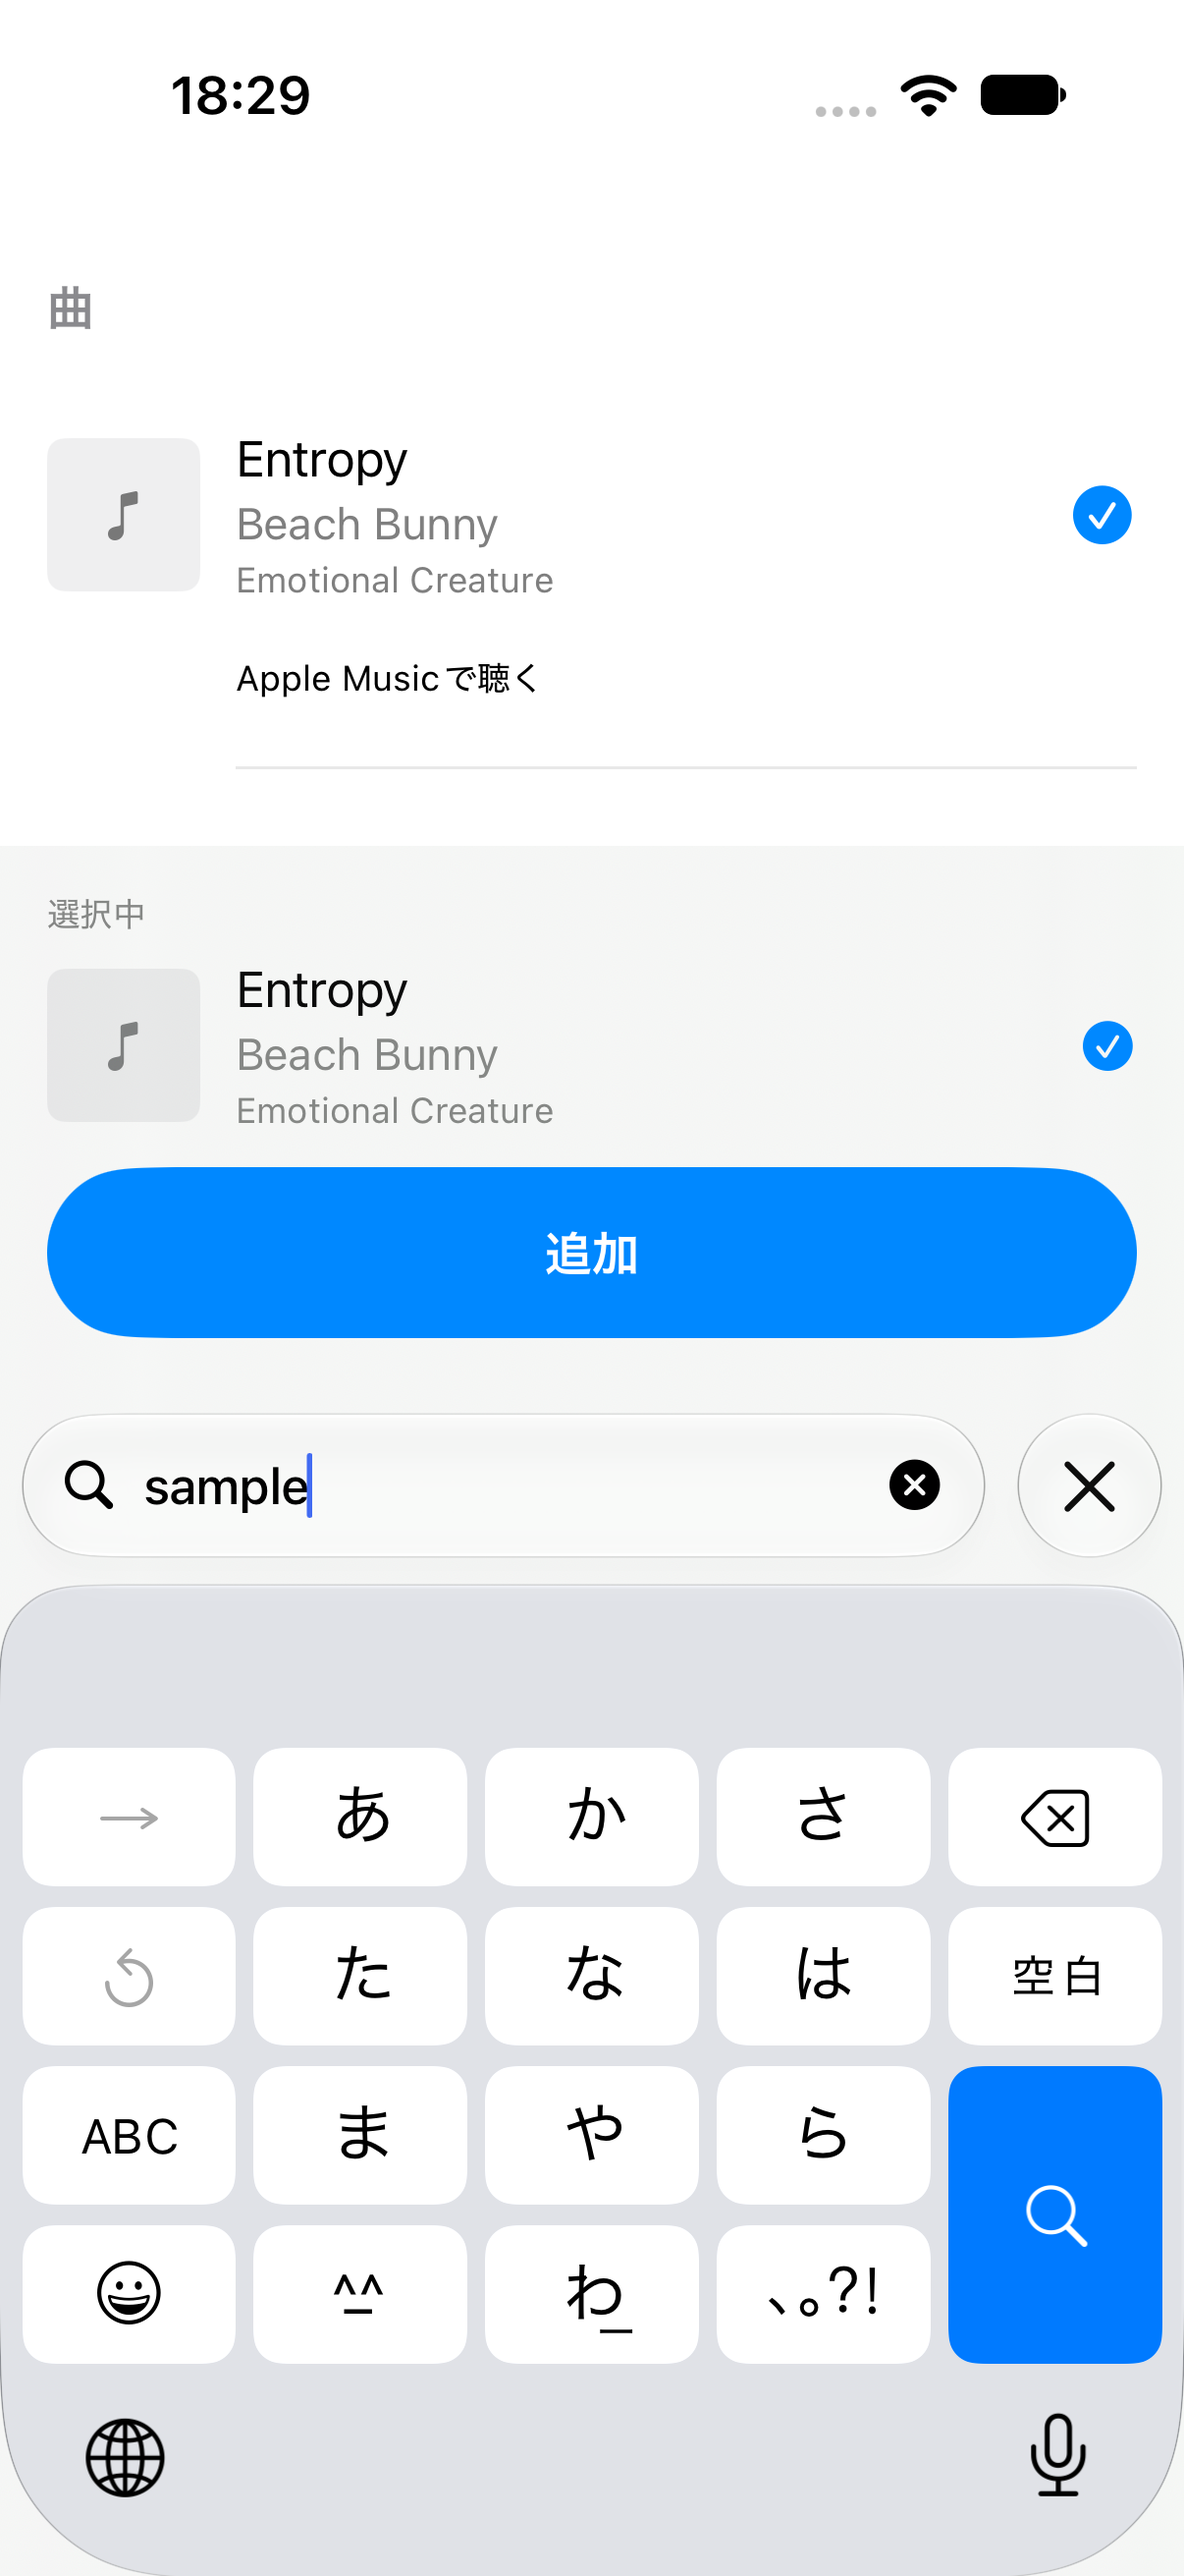
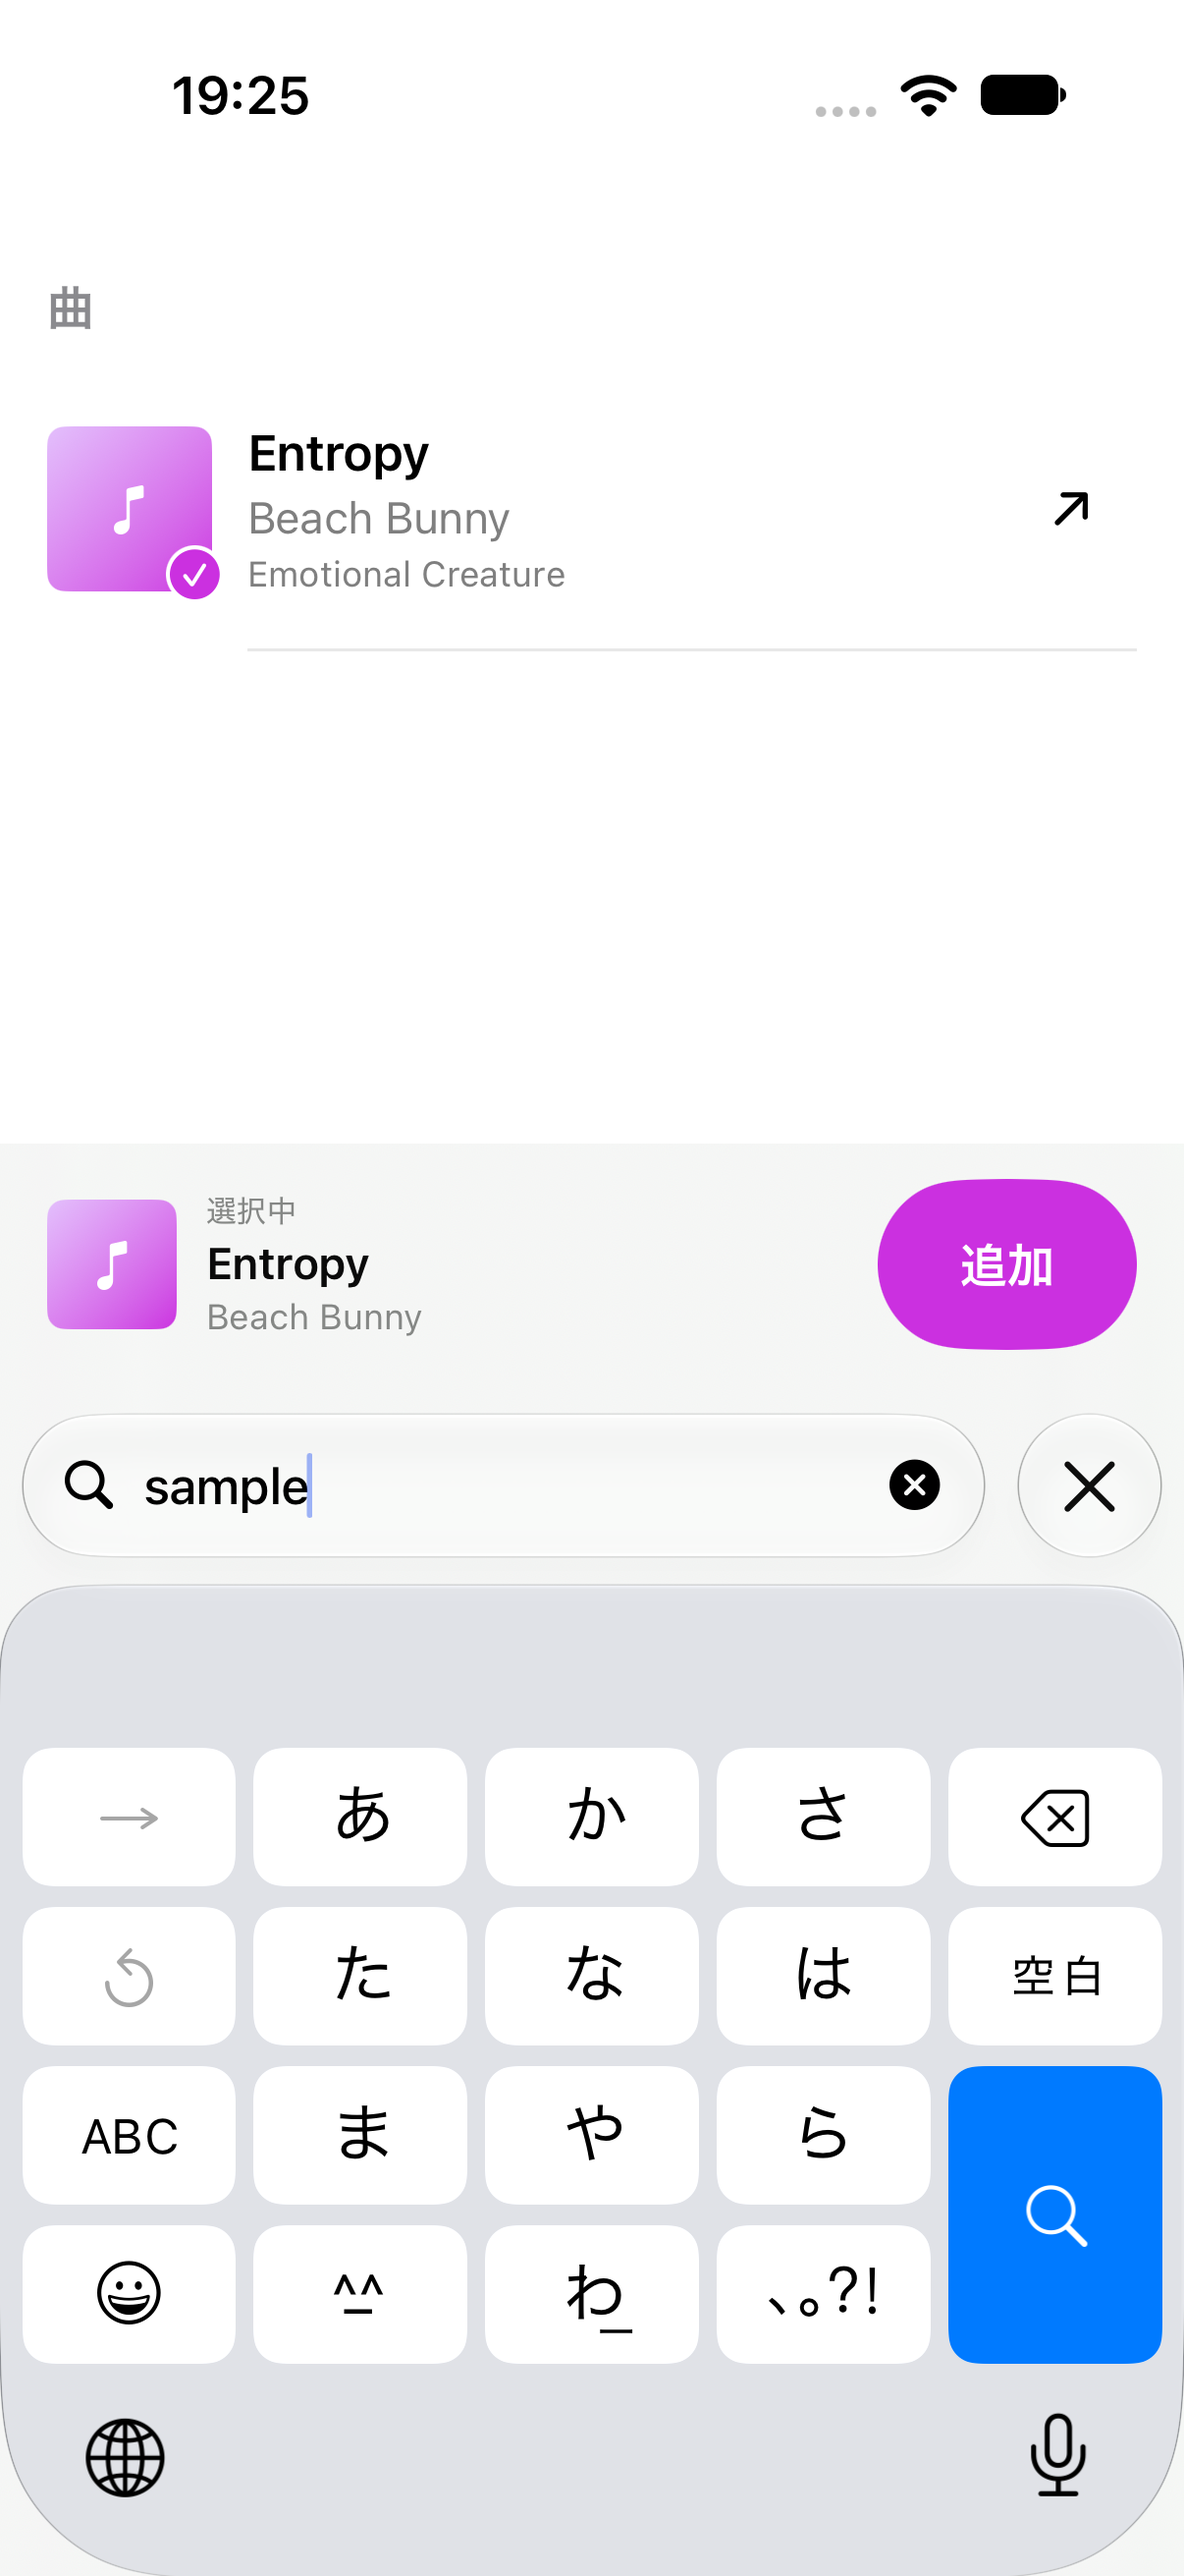
style: refine music selection screen

diff --git a/sotsugyo/View/SearchMusicView.swift b/sotsugyo/View/SearchMusicView.swift
@@ -6,6 +6,7 @@ struct SearchView: View {
     @StateObject private var viewModel: SearchViewModel
     @State private var retryCount = 0
     @State private var isConfirmingClearHistory = false
+    private let musicAccent = Color(uiColor: .systemPurple)
 
     init(selectedTrack: Binding<Track?>, viewModel: SearchViewModel? = nil) {
         _selectedTrack = selectedTrack
@@ -29,7 +30,7 @@ struct SearchView: View {
         .scrollDismissesKeyboard(.interactively)
         .overlay { emptyState }
         .safeAreaInset(edge: .bottom, spacing: 0) {
-            VStack(spacing: 12) {
+            HStack(spacing: 12) {
                 if let track = viewModel.selection {
                     selectedTrackSummary(track)
                 }
@@ -39,7 +40,8 @@ struct SearchView: View {
                     dismiss()
                 } label: {
                     Text("追加")
-                        .frame(maxWidth: .infinity, minHeight: 44)
+                        .frame(minWidth: 64, minHeight: 44)
+                        .frame(maxWidth: viewModel.selection == nil ? .infinity : nil)
                 }
                 .fontWeight(.semibold)
                 .buttonStyle(.borderedProminent)
@@ -47,10 +49,12 @@ struct SearchView: View {
                 .accessibilityIdentifier("music.add")
                 .accessibilityHint("選択した曲を写真に追加して、写真編集に戻ります")
             }
-            .padding()
+            .padding(.horizontal, 16)
+            .padding(.vertical, 12)
             .frame(maxWidth: .infinity)
             .background(.regularMaterial)
         }
+        .tint(musicAccent)
         .navigationTitle("音楽を追加")
         .navigationBarTitleDisplayMode(.inline)
         .searchable(text: $viewModel.searchText, prompt: "Apple Musicで曲名・アーティスト名を検索")
@@ -116,21 +120,24 @@ struct SearchView: View {
         if !viewModel.tracks.isEmpty {
             Section {
                 ForEach(viewModel.tracks) { track in
-                    VStack(alignment: .leading, spacing: 4) {
+                    HStack(spacing: 0) {
                         Button {
                             viewModel.select(track)
                         } label: {
                             HStack(spacing: 12) {
                                 MusicArtwork(track: track)
+                                    .overlay(alignment: .bottomTrailing) {
+                                        if viewModel.selection?.selectionID == track.selectionID {
+                                            Image(systemName: "checkmark.circle.fill")
+                                                .foregroundStyle(musicAccent)
+                                                .background(Color(uiColor: .systemBackground), in: Circle())
+                                                .offset(x: 4, y: 4)
+                                                .accessibilityHidden(true)
+                                        }
+                                    }
                                 trackInfo(track)
-                                Spacer(minLength: 8)
-                                Image(systemName: viewModel.selection?.selectionID == track.selectionID ? "checkmark.circle.fill" : "circle")
-                                    .foregroundStyle(viewModel.selection?.selectionID == track.selectionID ? Color.accentColor : Color.secondary)
-                                    .font(.title3)
-                                    .accessibilityHidden(true)
                             }
-                            .frame(minHeight: 56)
-                            .padding(.vertical, 6)
+                            .frame(maxWidth: .infinity, minHeight: 56, alignment: .leading)
                             .contentShape(Rectangle())
                         }
                         .buttonStyle(.plain)
@@ -138,12 +145,15 @@ struct SearchView: View {
                         .accessibilityAddTraits(viewModel.selection?.selectionID == track.selectionID ? .isSelected : [])
                         .accessibilityHint("写真に追加する曲として選択します")
                         if let url = track.serviceURL {
-                            Link("Apple Musicで聴く", destination: url)
-                                .font(.caption)
-                                .padding(.leading, 64)
-                                .frame(minHeight: 32)
+                            Link(destination: url) {
+                                Image(systemName: "arrow.up.right")
+                                    .font(.subheadline.weight(.semibold))
+                                    .frame(width: 44, height: 44)
+                            }
+                            .accessibilityLabel("Apple Musicで聴く")
                         }
                     }
+                    .padding(.vertical, 4)
                 }
             } header: {
                 Text(viewModel.resultsQuery == viewModel.query ? "曲" : "「\(viewModel.resultsQuery)」の検索結果")
@@ -170,16 +180,14 @@ struct SearchView: View {
     }
 
     private func selectedTrackSummary(_ track: Track) -> some View {
-        VStack(alignment: .leading, spacing: 8) {
-            Text("選択中").font(.caption).foregroundStyle(.secondary)
-            HStack(spacing: 12) {
-                MusicArtwork(track: track)
-                trackInfo(track)
-                Spacer(minLength: 0)
-                Image(systemName: "checkmark.circle.fill")
-                    .foregroundStyle(Color.accentColor)
-                    .accessibilityHidden(true)
+        HStack(spacing: 10) {
+            MusicArtwork(track: track, size: 44)
+            VStack(alignment: .leading, spacing: 2) {
+                Text("選択中").font(.caption2).foregroundStyle(.secondary)
+                Text(track.name).font(.subheadline.weight(.semibold)).lineLimit(1)
+                Text(track.artist).font(.caption).foregroundStyle(.secondary).lineLimit(1)
             }
+            .frame(maxWidth: .infinity, alignment: .leading)
         }
         .frame(maxWidth: .infinity, alignment: .leading)
         .accessibilityElement(children: .combine)
@@ -187,8 +195,8 @@ struct SearchView: View {
 
     private func trackInfo(_ track: Track) -> some View {
         VStack(alignment: .leading, spacing: 3) {
-            Text(track.name).font(.body).foregroundStyle(.primary).lineLimit(2)
-            Text(track.artist).font(.subheadline).foregroundStyle(.secondary).lineLimit(2)
+            Text(track.name).font(.body.weight(.semibold)).foregroundStyle(.primary).lineLimit(1)
+            Text(track.artist).font(.subheadline).foregroundStyle(.secondary).lineLimit(1)
             if let album = track.albumName, !album.isEmpty {
                 Text(album).font(.caption).foregroundStyle(.secondary).lineLimit(1)
             }
@@ -199,17 +207,19 @@ struct SearchView: View {
 
 private struct MusicArtwork: View {
     let track: Track
+    var size: CGFloat = 56
 
     var body: some View {
         AsyncImage(url: track.albumImages.first.flatMap(URL.init(string:))) { image in
             image.resizable().scaledToFill()
         } placeholder: {
             Image(systemName: "music.note")
-                .foregroundStyle(.secondary)
+                .foregroundStyle(.white)
                 .frame(maxWidth: .infinity, maxHeight: .infinity)
-                .background(Color(uiColor: .tertiarySystemFill))
+                .background(LinearGradient(colors: [Color("mainColor"), Color(uiColor: .systemPurple)],
+                                           startPoint: .topLeading, endPoint: .bottomTrailing))
         }
-        .frame(width: 52, height: 52)
+        .frame(width: size, height: size)
         .clipShape(RoundedRectangle(cornerRadius: 6))
         .accessibilityHidden(true)
     }

diff --git a/sotsugyoUITests/sotsugyoUITests.swift b/sotsugyoUITests/sotsugyoUITests.swift
@@ -25,6 +25,7 @@ final class sotsugyoUITests: XCTestCase {
         search.tap()
         search.typeText("sample")
         XCTAssertTrue(app.staticTexts["Entropy"].firstMatch.waitForExistence(timeout: 5))
+        XCTAssertTrue(app.links["Apple Musicで聴く"].isHittable)
         app.staticTexts["Entropy"].firstMatch.tap()
         XCTAssertTrue(app.staticTexts["選択中"].waitForExistence(timeout: 3))
         attachScreenshot("Apple Music検索と選択")
